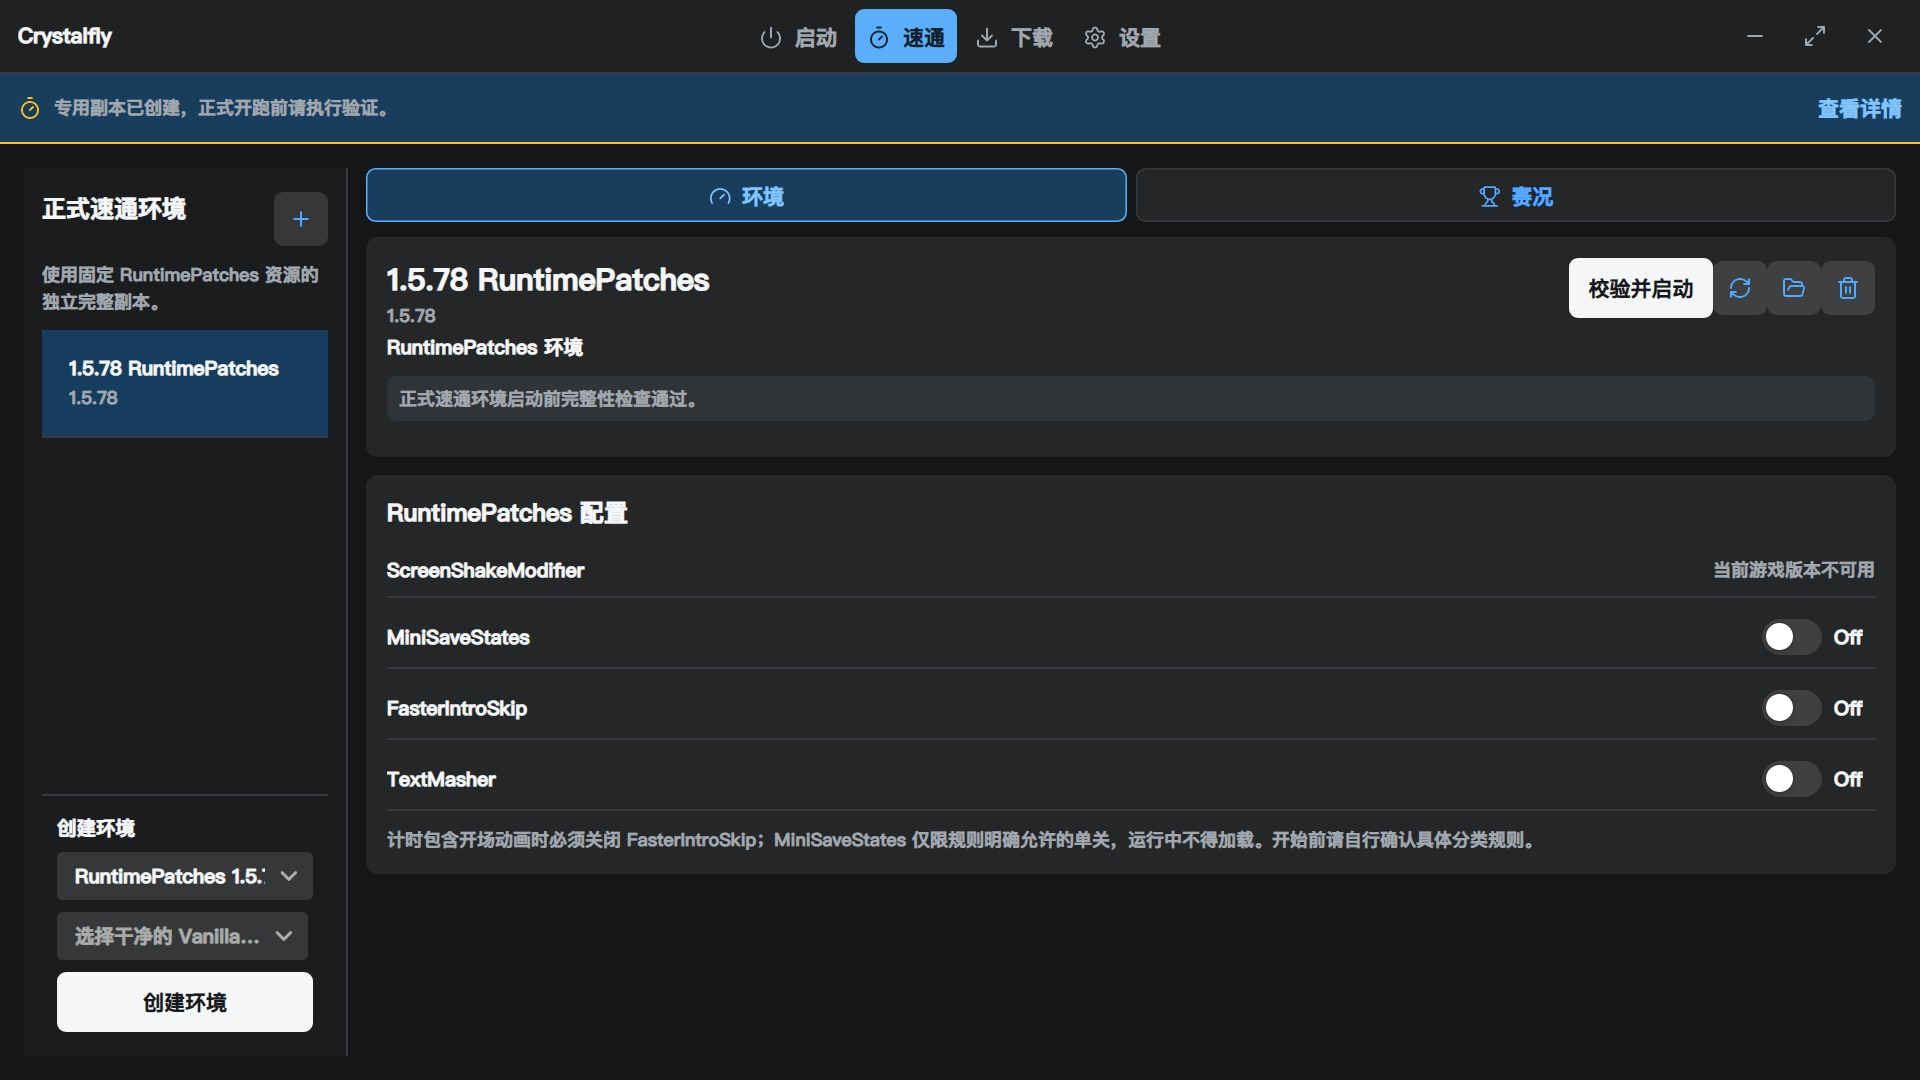
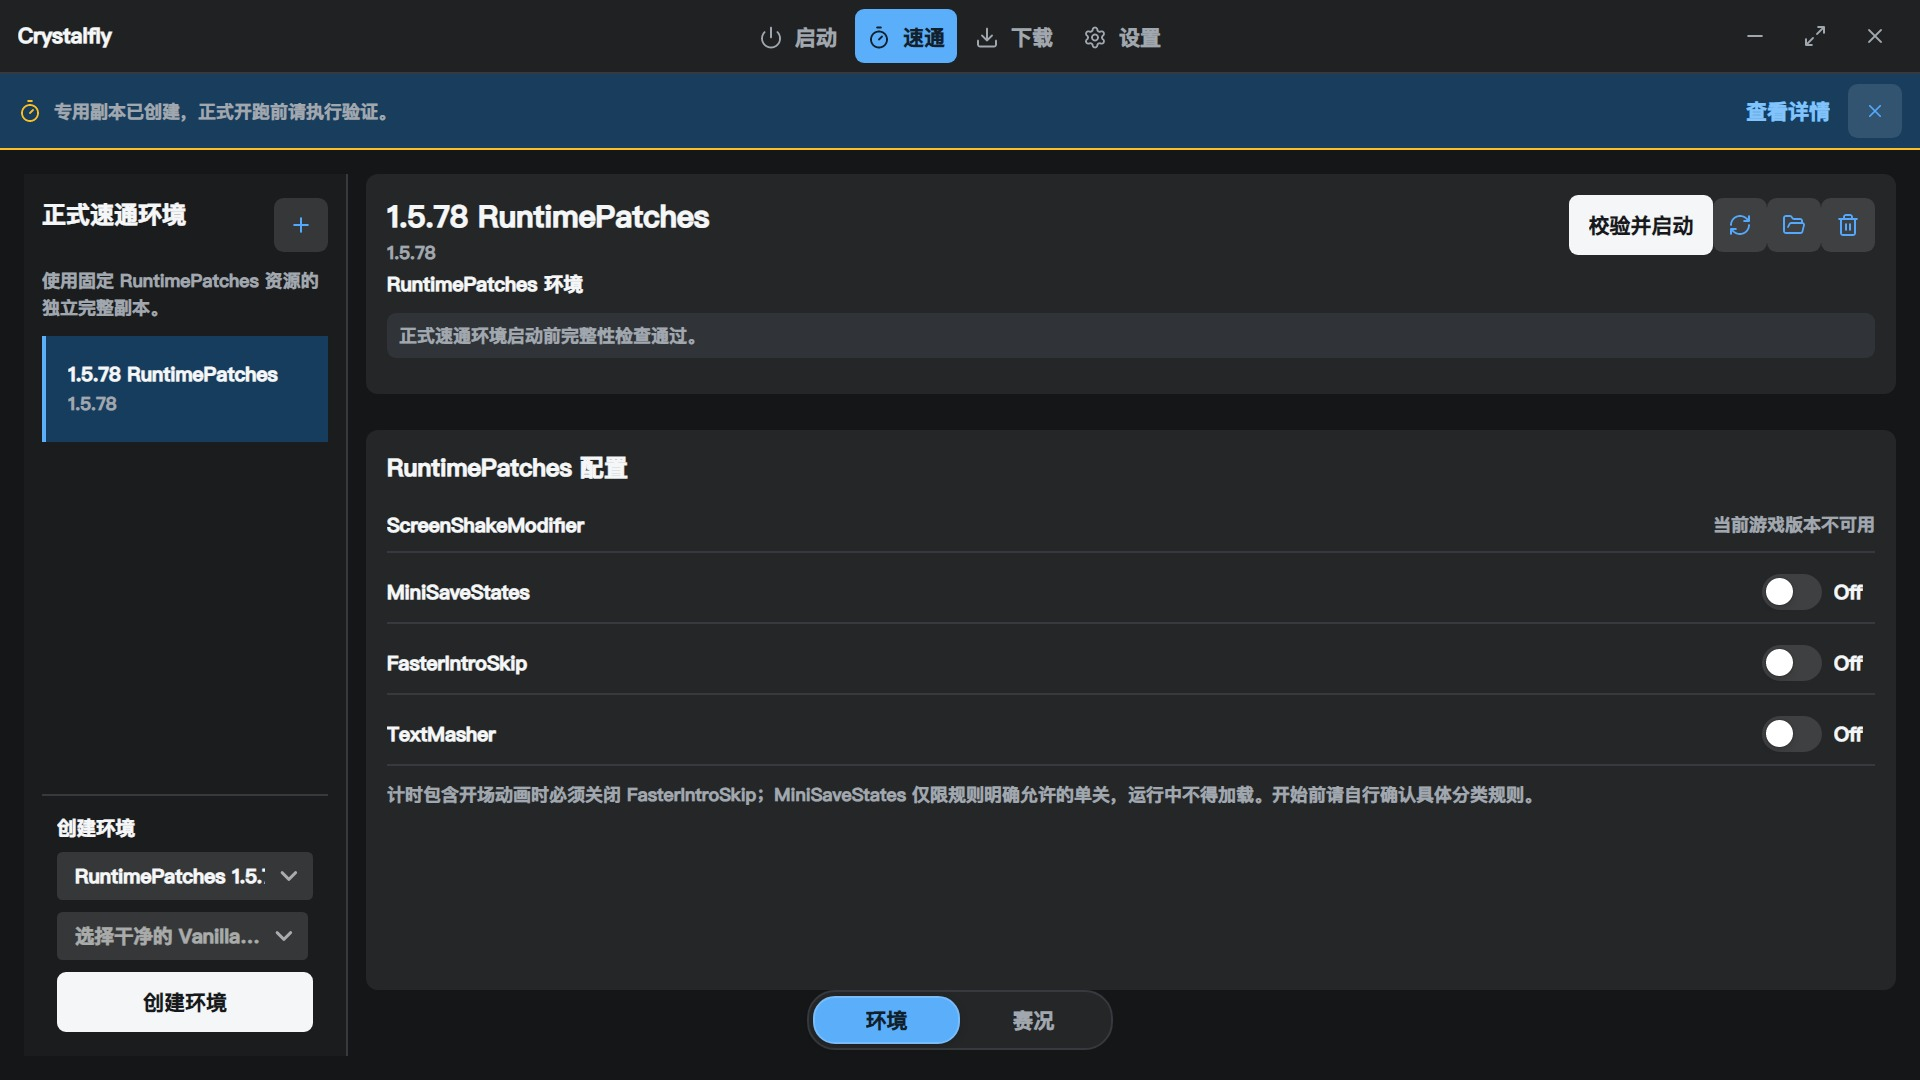
fix(ui): anchor speedrun tab switch over the content area
Keep the Environment/Activity switch overlaid on the page bottom instead
of reserving its own row, and let the workspace stretch to the viewport
height so the card surface fills the column. The activity workspace keeps
bottom padding so status/error rows clear the floating switch.

diff --git a/tests/Crystalfly.App.Tests/Ui/LayoutRenderingTests.cs b/tests/Crystalfly.App.Tests/Ui/LayoutRenderingTests.cs
@@ -297,6 +297,30 @@ public sealed class LayoutRenderingTests
                 .Single(button => button.Classes.Contains("cfp-primary")
                     && Equals(button.Content, viewModel.Loc["SpeedrunCreate"]));
             Assert.Equal(HorizontalAlignment.Stretch, createButton.HorizontalAlignment);
+
+            // 底部切换条不再独占一行，而是悬浮在内容之上、锚定页面底部并水平居中。
+            var tabSwitch = window.GetVisualDescendants()
+                .OfType<Border>()
+                .Single(border => border.Classes.Contains("cfp-speedrun-tab-switch"));
+            Assert.True(tabSwitch.IsEffectivelyVisible);
+            var tabBottom = tabSwitch.TranslatePoint(new Point(0, tabSwitch.Bounds.Height), window);
+            var tabCenter = tabSwitch.TranslatePoint(new Point(tabSwitch.Bounds.Width / 2, 0), window);
+            Assert.NotNull(tabBottom);
+            Assert.NotNull(tabCenter);
+            Assert.InRange(window.Height - tabBottom.Value.Y, 8, 28);
+            Assert.InRange(Math.Abs(tabCenter.Value.X - window.Width / 2), 0, 2);
+
+            var workspaceScroll = window.GetVisualDescendants()
+                .OfType<Grid>()
+                .Single(grid => grid.Classes.Contains("cfp-workspace") && grid.IsEffectivelyVisible)
+                .FindAncestorOfType<ScrollViewer>();
+            Assert.NotNull(workspaceScroll);
+            var scrollBottom = workspaceScroll.TranslatePoint(new Point(0, workspaceScroll.Bounds.Height), window);
+            Assert.NotNull(scrollBottom);
+            // 内容区延伸至页面底部（不再是「切换条 + 上方内容」的两行结构）
+            Assert.InRange(window.Height - 16 - scrollBottom.Value.Y, 0, 1.5);
+            // 切换条悬浮在内容之上
+            Assert.True(tabBottom.Value.Y <= scrollBottom.Value.Y + 0.5);
         }
         finally
         {

diff --git a/tests/Crystalfly.App.Tests/Ui/MainWindowStructureTests.cs b/tests/Crystalfly.App.Tests/Ui/MainWindowStructureTests.cs
@@ -208,7 +208,9 @@ public sealed class MainWindowStructureTests
             && HasBinding(button, "Classes.active", "IsSpeedrunActivityTab"));
         var tabSwitch = speedrun.Descendants(Avalonia + "Border")
             .Single(border => HasClass(border, "cfp-speedrun-tab-switch"));
-        Assert.Equal("1", (string?)tabSwitch.Attribute("Grid.Row"));
+        Assert.Null(tabSwitch.Attribute("Grid.Row"));
+        Assert.Equal("Bottom", (string?)tabSwitch.Attribute("VerticalAlignment"));
+        Assert.Equal("10", (string?)tabSwitch.Attribute("ZIndex"));
         Assert.Contains(tabSwitch.Descendants(Avalonia + "Border"), border =>
             HasClass(border, "cfp-speedrun-tab-indicator")
             && (string?)border.Attribute("Grid.Column") == "0"
